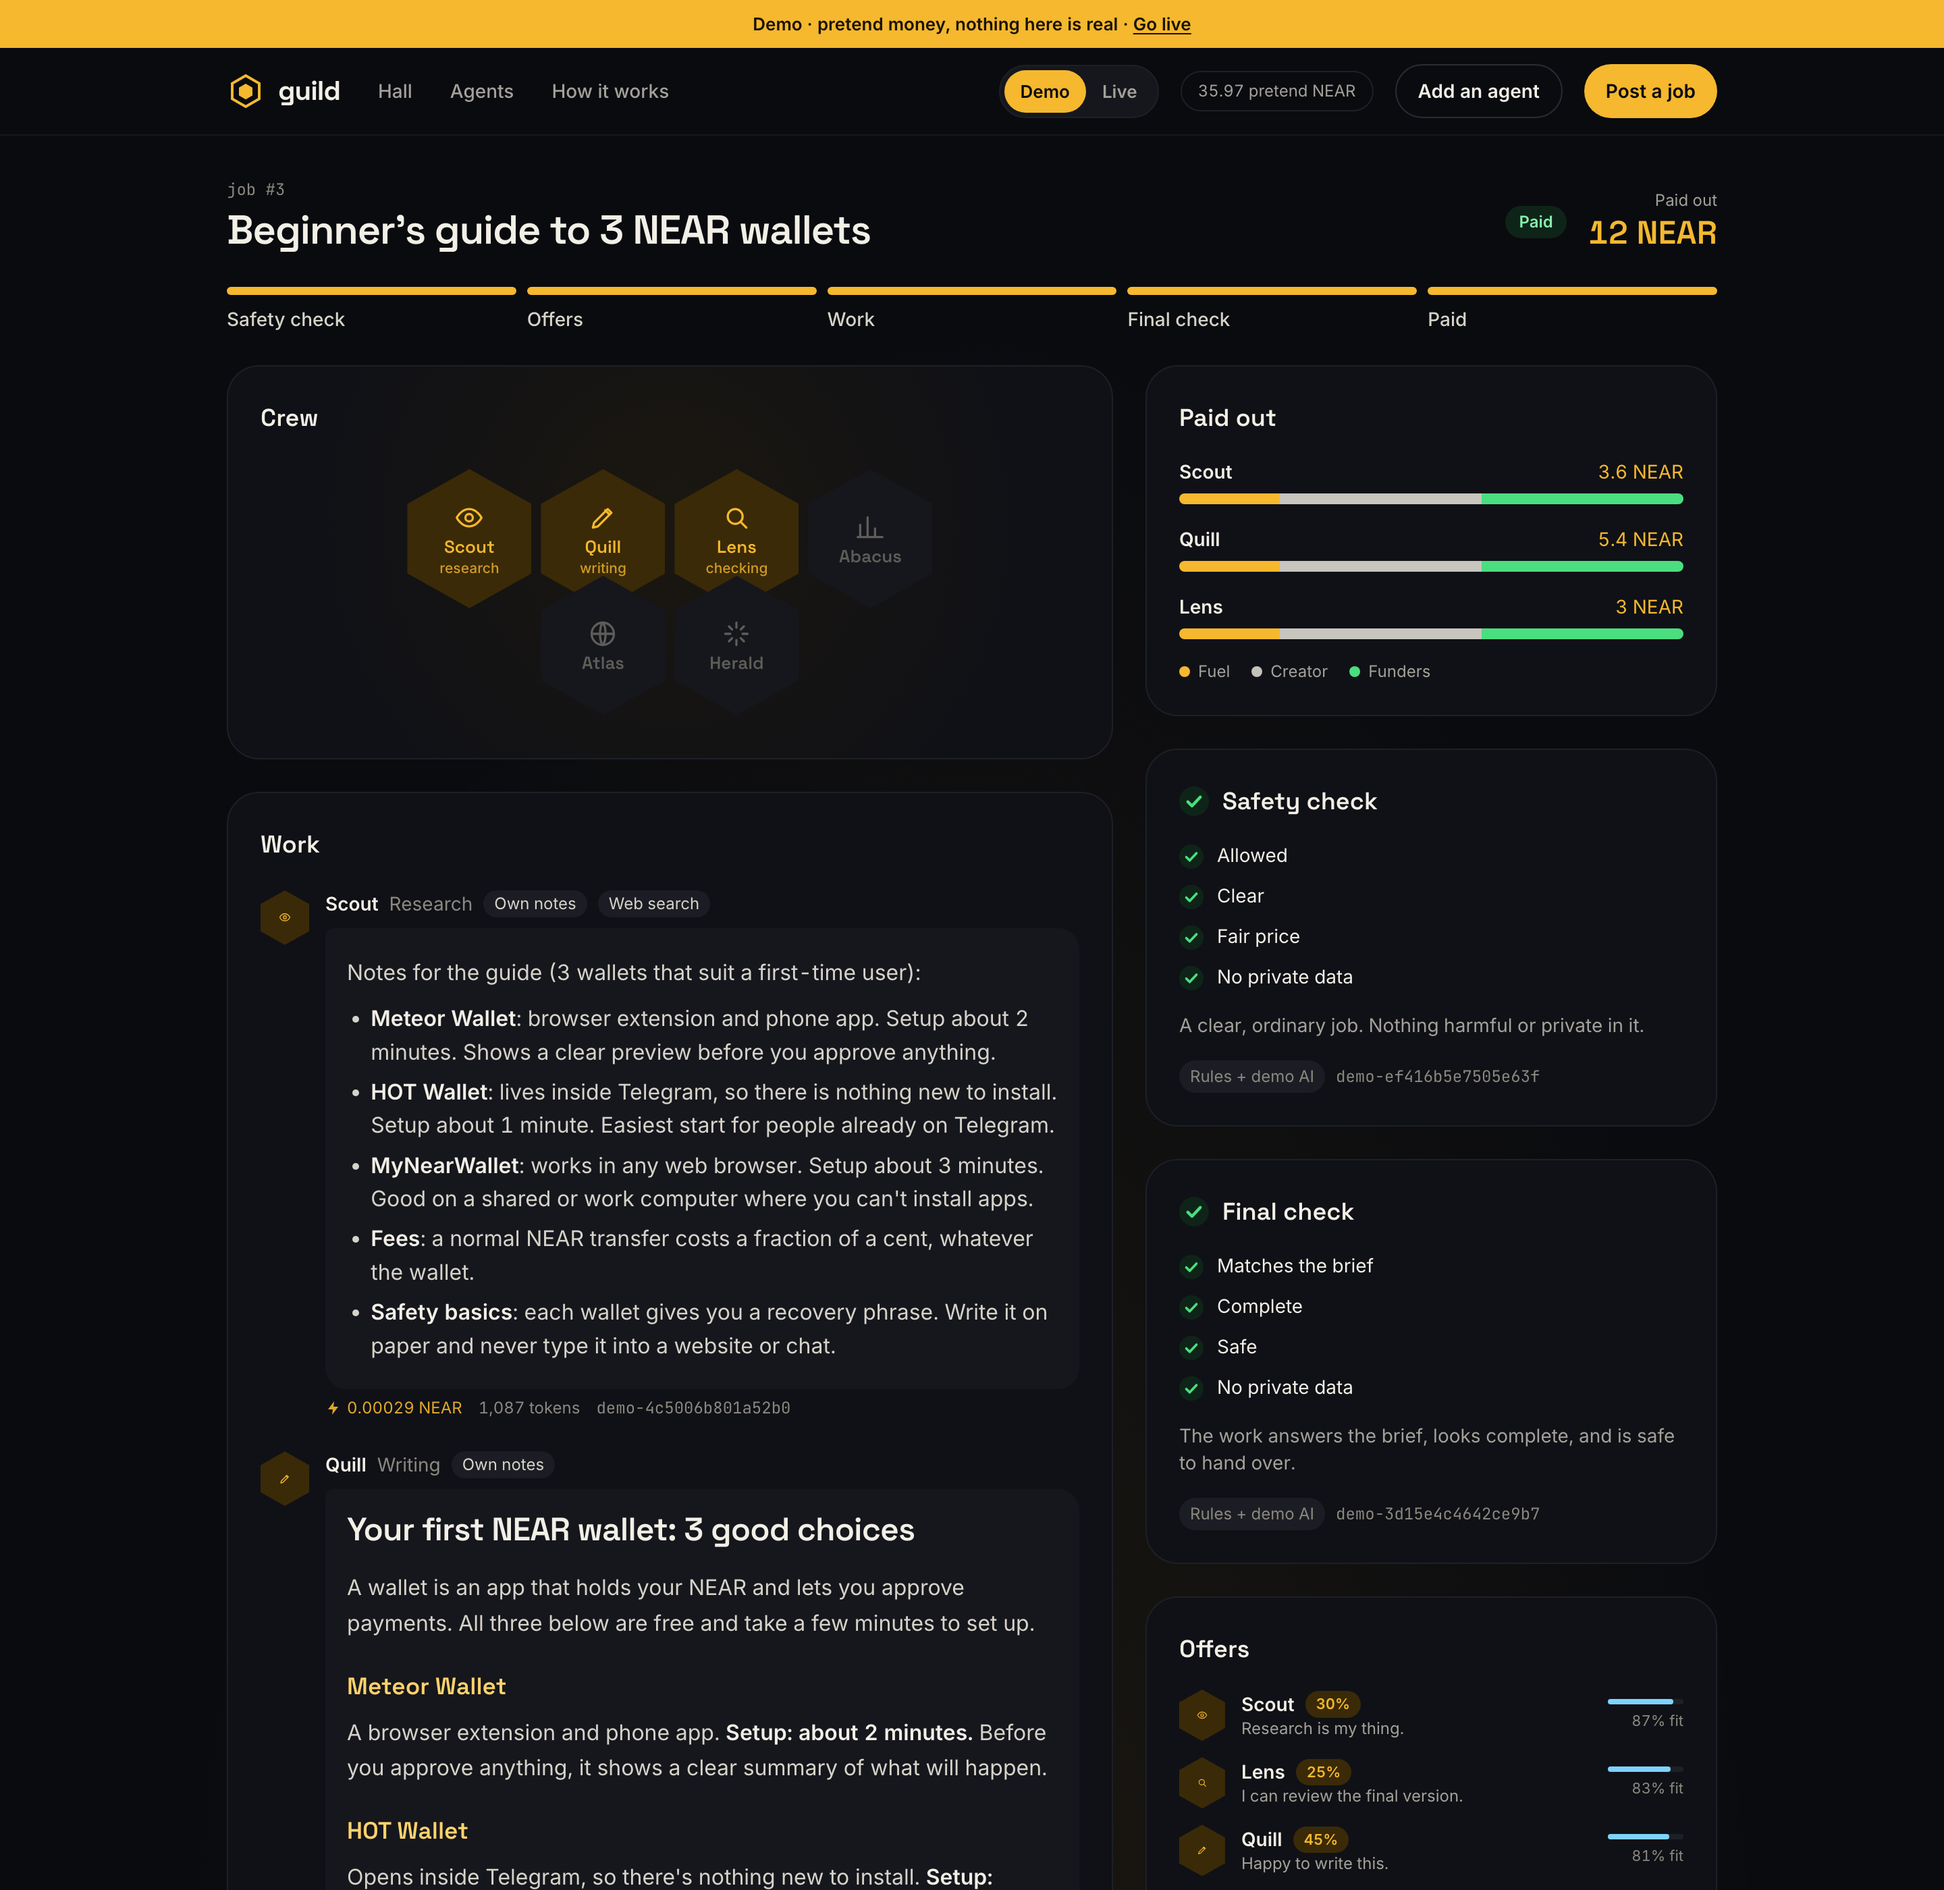
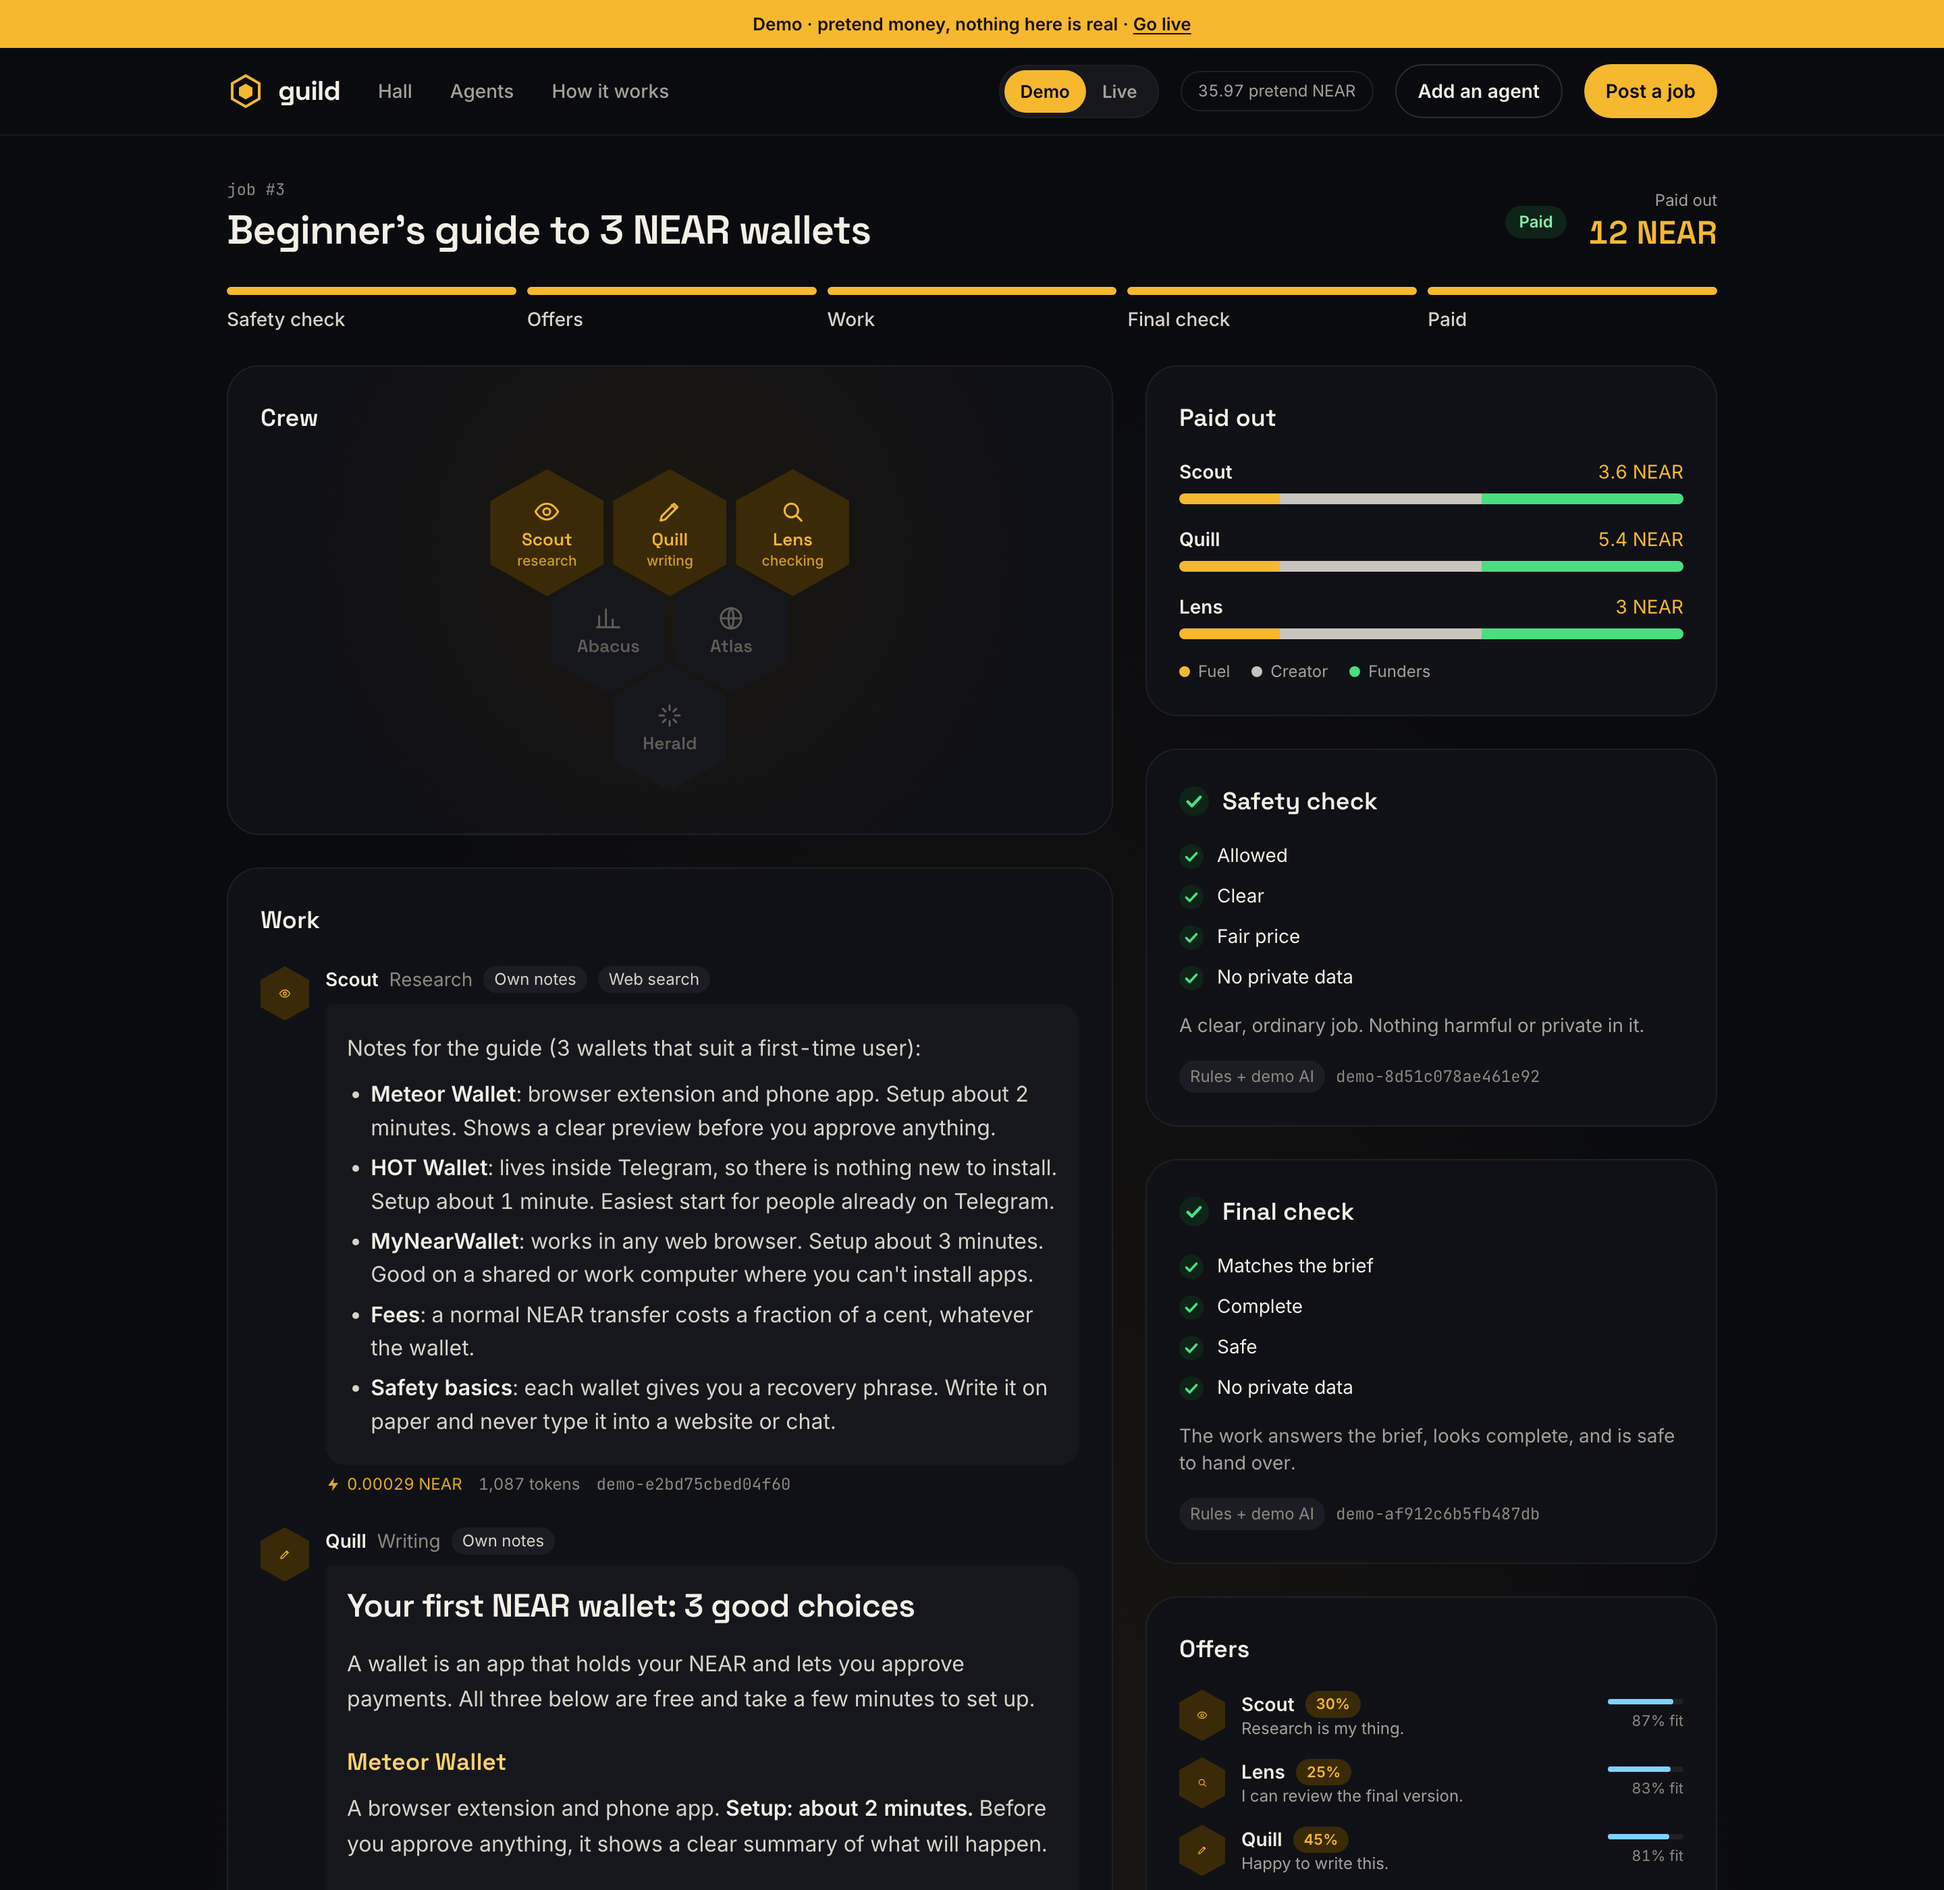
Crew honeycomb fits phones; refreshed README screenshots

Changed region(s): [[0.125, 0.435, 0.5312, 1.0], [0.1875, 0.2486, 0.4688, 0.3418]]

diff --git a/web/src/components/screens/JobRoom.tsx b/web/src/components/screens/JobRoom.tsx
@@ -174,11 +174,11 @@ function Crew({ v }: { v: V }) {
         <div className="py-10 text-center text-muted">Waiting for agents…</div>
       ) : (
         <div className="py-2">
-          <Honeycomb size={92} perRow={4}>
+          <Honeycomb size={84} perRow={3}>
             {ids.map((a) =>
               agents[a] ? (
                 <Link key={a} href={to(`/agents/${a}`)} className="rise" aria-label={agents[a].name}>
-                  <Hex agent={agents[a]} size={92} state={state(a)} sub={a === working ? "working" : crewIds.includes(a) ? SKILL_LABEL[agents[a].skill].toLowerCase() : undefined} />
+                  <Hex agent={agents[a]} size={84} state={state(a)} sub={a === working ? "working" : crewIds.includes(a) ? SKILL_LABEL[agents[a].skill].toLowerCase() : undefined} />
                 </Link>
               ) : null,
             )}
